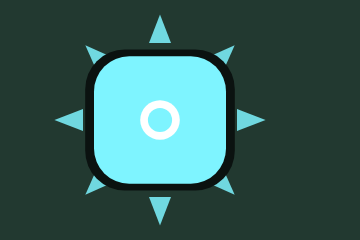
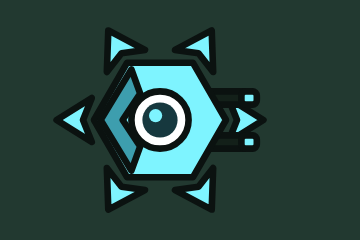
Redesign boss silhouettes and refresh README illustrations

Changed region(s): [[0.1528, 0.0583, 0.7639, 0.9333], [0.6417, 0.175, 0.6722, 0.2042]]

diff --git a/src/game/bossVisuals.ts b/src/game/bossVisuals.ts
@@ -1,0 +1,103 @@
+import type { BossVariant } from './rules';
+
+/** Overhead boss silhouettes. All geometry is normalized to a radius of 32.
+ * Decorative armor extends beyond the unchanged gameplay collision radius.
+ */
+export function drawBossVisual(
+  ctx: CanvasRenderingContext2D, variant: BossVariant, radius: number,
+  time: number, hit: boolean,
+) {
+  const dark = '#0b1210';
+  const armor = '#132019';
+  const color = hit ? '#ffffff' : variant.color;
+  ctx.save();
+  ctx.scale(radius / 32, radius / 32);
+  ctx.lineJoin = 'round';
+  ctx.lineCap = 'round';
+  const polygon = (points: number[][], fill: string, stroke = dark, width = 3) => {
+    ctx.beginPath();
+    points.forEach(([x, y], i) => i ? ctx.lineTo(x, y) : ctx.moveTo(x, y));
+    ctx.closePath(); ctx.fillStyle = fill; ctx.fill();
+    ctx.strokeStyle = stroke; ctx.lineWidth = width; ctx.stroke();
+  };
+  const box = (x: number, y: number, w: number, h: number, r: number, fill: string) => {
+    ctx.beginPath(); ctx.roundRect(x, y, w, h, r);
+    ctx.fillStyle = fill; ctx.fill();
+    ctx.strokeStyle = dark; ctx.lineWidth = 3; ctx.stroke();
+  };
+  const circle = (x: number, y: number, r: number, fill: string, outline = true) => {
+    ctx.beginPath(); ctx.arc(x, y, r, 0, Math.PI * 2);
+    ctx.fillStyle = fill; ctx.fill();
+    if (outline) { ctx.strokeStyle = dark; ctx.lineWidth = 3; ctx.stroke(); }
+  };
+  const barrels = (length: number, gap: number, height: number) => {
+    for (const y of [-gap, gap]) {
+      box(15, y - height / 2, length, height, 3, armor);
+      box(15 + length - 7, y - height / 2, 7, height, 2, color);
+    }
+  };
+  if (variant.shape === 'goliath') {
+    // Rear paint tanks, broad side plates and heavy twin barrels.
+    box(-39, -22, 16, 17, 5, color);
+    box(-39, 5, 16, 17, 5, color);
+    box(-25, -35, 46, 13, 4, armor);
+    box(-25, 22, 46, 13, 4, armor);
+    barrels(32, 12, 13);
+    polygon([[-32,-18],[-17,-29],[18,-29],[31,-16],[31,16],[18,29],[-17,29],[-32,18]], color);
+    polygon([[-26,-16],[-15,-23],[-15,23],[-26,16]], armor);
+    box(-6, -8, 32, 16, 5, armor);
+    box(4, -3, 18, 6, 2, '#e9f5ee');
+    for (const y of [-21, 21]) {
+      box(-8, y - 2, 22, 4, 1, armor);
+    }
+  } else if (variant.shape === 'inferno') {
+    // Swept flame fins remain readable even without particles.
+    for (let i = 0; i < 6; i++) {
+      ctx.save(); ctx.rotate(i * Math.PI / 3);
+      const pulse = Math.sin(time * 8 + i) * 2;
+      polygon([[22,-12],[46 + pulse,-8],[33,6],[23,12]], color);
+      ctx.restore();
+    }
+    barrels(27, 9, 9);
+    polygon([[-31,0],[-15,-27],[17,-24],[31,0],[17,24],[-15,27]], color);
+    polygon([[-23,0],[-12,-18],[-8,0],[-12,18]], armor);
+    for (const y of [-15, 15]) {
+      box(-2, y - 3, 17, 6, 2, armor);
+      box(2, y - 1, 10, 2, 1, '#ffd84d');
+    }
+    box(0, -5, 24, 10, 4, armor);
+    box(6, -2, 14, 4, 1, '#ffffff');
+  } else if (variant.shape === 'glacier') {
+    // Six detached crystal plates around a genuinely hexagonal shell.
+    for (let i = 0; i < 6; i++) {
+      ctx.save(); ctx.rotate(i * Math.PI / 3);
+      polygon([[31,-10],[47,0],[31,10],[35,0]], color);
+      ctx.restore();
+    }
+    barrels(29, 10, 6);
+    polygon([[30,0],[15,26],[-15,26],[-30,0],[-15,-26],[15,-26]], color);
+    polygon([[-27,0],[-13,-23],[-9,-12],[-17,0],[-9,12],[-13,23]], '#3d9eae');
+    circle(0, 0, 13, '#ffffff');
+    circle(0, 0, 8, '#16383e', false);
+    circle(-2, -2, 3, '#7ef4ff', false);
+  } else {
+    // Paint vat, paired side reservoirs, hoses and asymmetric spray nozzles.
+    for (const y of [-30, 30]) {
+      ctx.beginPath(); ctx.moveTo(-20, y); ctx.quadraticCurveTo(-39, y, -28, 0);
+      ctx.strokeStyle = dark; ctx.lineWidth = 7; ctx.stroke();
+      box(-22, y - 9, 42, 18, 8, armor);
+      box(-17, y - 6, 29, 12, 5, color);
+    }
+    for (const [x,y,r] of [[-36,-17,5],[-42,0,6],[-36,17,5]]) circle(x,y,r,color);
+    box(17, -15, 28, 11, 4, armor);
+    box(38, -15, 7, 11, 2, color);
+    box(19, 6, 21, 12, 4, armor);
+    box(34, 6, 7, 12, 2, color);
+    circle(0, 0, 29, armor);
+    circle(0, 0, 24, color);
+    box(-17, -5, 35, 10, 4, armor);
+    box(1, -2, 13, 4, 1, '#ffffff');
+    for (const [x,y] of [[-10,-13],[0,15],[9,-14]]) circle(x,y,2,'#e9f5ee',false);
+  }
+  ctx.restore();
+}

diff --git a/src/game/engine.ts b/src/game/engine.ts
@@ -1,3 +1,4 @@
+import { drawBossVisual } from "./bossVisuals";
 import { Sfx } from "./audio";
 import {
   DEFAULT_WEAPON,
@@ -3557,7 +3558,6 @@ export class PaintballGame {
       ctx.fill();
     } else if (e.type === "boss") {
       const bv = BOSS_VARIANTS[(e.variant ?? 0) % BOSS_VARIANTS.length];
-      const tint = hit ? "#ffffff" : bv.color;
       const t = this.time;
       // halo de variante
       const glow = this.glows.get(bv.color);
@@ -3567,91 +3567,7 @@ export class PaintballGame {
         ctx.drawImage(glow, -e.r * 2.4, -e.r * 2.4, e.r * 4.8, e.r * 4.8);
         ctx.restore();
       }
-      if (bv.shape === "inferno") {
-        // double canon + pointes de flamme
-        ctx.fillStyle = "#132019";
-        this.rr(ctx, 4, -15, 42, 11, 5);
-        ctx.fill();
-        this.rr(ctx, 4, 4, 42, 11, 5);
-        ctx.fill();
-        for (let i = 0; i < 6; i++) {
-          const a = (i / 6) * TAU;
-          ctx.save();
-          ctx.rotate(a);
-          ctx.fillStyle = tint;
-          ctx.beginPath();
-          ctx.moveTo(e.r + 2, -7);
-          ctx.lineTo(e.r + 14 + Math.sin(t * 8 + i) * 4, 0);
-          ctx.lineTo(e.r + 2, 7);
-          ctx.closePath();
-          ctx.fill();
-          ctx.restore();
-        }
-      } else if (bv.shape === "glacier") {
-        // cristaux autour d'un noyau hexagonal
-        for (let i = 0; i < 8; i++) {
-          const a = (i / 8) * TAU + t * 0.5;
-          ctx.save();
-          ctx.rotate(a);
-          ctx.fillStyle = tint;
-          ctx.globalAlpha = 0.85;
-          ctx.beginPath();
-          ctx.moveTo(e.r + 3, -5);
-          ctx.lineTo(e.r + 16, 0);
-          ctx.lineTo(e.r + 3, 5);
-          ctx.closePath();
-          ctx.fill();
-          ctx.restore();
-        }
-      } else if (bv.shape === "toxic") {
-        // couronne de pics + réservoir
-        ctx.fillStyle = "#132019";
-        this.rr(ctx, -e.r - 12, -10, 16, 20, 6);
-        ctx.fill();
-        for (let i = 0; i < 10; i++) {
-          const a = (i / 10) * TAU;
-          ctx.fillStyle = tint;
-          ctx.beginPath();
-          ctx.arc(Math.cos(a) * (e.r + 6), Math.sin(a) * (e.r + 6), 3.4, 0, TAU);
-          ctx.fill();
-        }
-      } else {
-        // goliath : deux canons épais
-        ctx.fillStyle = "#132019";
-        this.rr(ctx, 4, -13, 40, 12, 5);
-        ctx.fill();
-        this.rr(ctx, 4, 3, 40, 12, 5);
-        ctx.fill();
-      }
-      ctx.fillStyle = "#0b1210";
-      this.rr(ctx, -e.r - 2, -e.r, (e.r + 2) * 2, e.r * 2, bv.shape === "glacier" ? 18 : 12);
-      ctx.fill();
-      ctx.fillStyle = tint;
-      this.rr(ctx, -e.r + 2, -e.r + 3, (e.r - 2) * 2, (e.r - 3) * 2, bv.shape === "glacier" ? 16 : 10);
-      ctx.fill();
-      // visière / noyau
-      if (bv.shape === "glacier") {
-        ctx.fillStyle = "#ffffff";
-        ctx.beginPath();
-        ctx.arc(0, 0, 9, 0, TAU);
-        ctx.fill();
-        ctx.fillStyle = bv.color;
-        ctx.beginPath();
-        ctx.arc(0, 0, 5.5, 0, TAU);
-        ctx.fill();
-      } else {
-        ctx.fillStyle = "rgba(11,18,16,0.55)";
-        this.rr(ctx, -e.r + 6, -5, e.r * 2 - 12, 10, 5);
-        ctx.fill();
-        ctx.fillStyle = "#ffffff";
-        ctx.beginPath();
-        ctx.arc(e.r - 8, 0, 8, 0, TAU);
-        ctx.fill();
-        ctx.fillStyle = "#0b1210";
-        ctx.beginPath();
-        ctx.arc(e.r - 6, 0, 4.6, 0, TAU);
-        ctx.fill();
-      }
+      drawBossVisual(ctx, bv, e.r, t, hit);
     } else {
       const long = e.type === "sniper";
       ctx.fillStyle = "#132019";

diff --git a/scripts/test-boss-visuals.ts b/scripts/test-boss-visuals.ts
@@ -1,0 +1,34 @@
+/** Run with npx tsx scripts/test-boss-visuals.ts after installing @napi-rs/canvas. */
+import assert from 'node:assert/strict';
+import { createCanvas } from '@napi-rs/canvas';
+import { drawBossVisual } from '../src/game/bossVisuals';
+import { BOSS_VARIANTS } from '../src/game/rules';
+
+const normal = new Set<string>();
+for (const variant of BOSS_VARIANTS) {
+  for (const radius of [24, 32, 40]) {
+    const render = (hit: boolean, time = 0) => {
+      const canvas = createCanvas(240, 240);
+      const ctx = canvas.getContext('2d');
+      ctx.translate(120, 120);
+      const before = ctx.getTransform();
+      drawBossVisual(ctx as unknown as CanvasRenderingContext2D, variant, radius, time, hit);
+      assert.deepEqual(ctx.getTransform(), before, 'Renderer must restore the transform');
+      const pixels = ctx.getImageData(0, 0, 240, 240).data;
+      assert(pixels.some((value, i) => i % 4 === 3 && value > 0), 'Must draw visible pixels');
+      // Decorative shapes must remain within the normalized export bounds.
+      for (let i = 0; i < 240; i++) {
+        for (const [x, y] of [[i,0], [i,239], [0,i], [239,i]]) {
+          assert.equal(pixels[(y * 240 + x) * 4 + 3], 0, 'No clipped silhouette');
+        }
+      }
+      return canvas.toBuffer('image/png').toString('base64');
+    };
+    const base = render(false);
+    assert.notEqual(base, render(true), `${variant.name} needs visible hit feedback`);
+    if (variant.shape === 'inferno') assert.notEqual(base, render(false, 0.2), 'Flame fins must animate');
+    if (radius === 32) normal.add(base);
+  }
+}
+assert.equal(normal.size, 4, 'Each boss must have a distinct appearance');
+console.log('Boss visuals: distinct silhouettes, hit feedback, animation, scaling and context restoration passed.');

diff --git a/README.md b/README.md
@@ -51,10 +51,12 @@ Les vignettes ci-dessous sont exportées avec les **fonctions de dessin du jeu**
 
 | Apparence | Boss | Première rencontre | Identité visuelle | Multiplicateur de PV de variante |
 | --- | --- | --- | --- | --- |
-| <img src="visuals/codex/goliath.png" alt="Apparence en jeu : GOLIATH" width="120" /> | **GOLIATH** | **Vague 5** | 🟡 Or · double canon épais | ×1,00 |
-| <img src="visuals/codex/inferno.png" alt="Apparence en jeu : INFERNO" width="120" /> | **INFERNO** | **Vague 10** | 🟠 Orange · pointes de flamme pulsantes | ×1,10 |
-| <img src="visuals/codex/glacier.png" alt="Apparence en jeu : GLACIER" width="120" /> | **GLACIER** | **Vague 15** | 🔵 Cyan · cristaux orbitaux et noyau hexagonal | ×1,20 |
-| <img src="visuals/codex/toxic.png" alt="Apparence en jeu : TOXIC" width="120" /> | **TOXIC** | **Vague 20** | 🟢 Lime · couronne de spores et cuve dorsale | ×1,30 |
+| <img src="visuals/codex/goliath.png" alt="Apparence en jeu : GOLIATH" width="120" /> | **GOLIATH** | **Vague 5** | 🟡 Or · blindage hexagonal, plaques latérales et double canon | ×1,00 |
+| <img src="visuals/codex/inferno.png" alt="Apparence en jeu : INFERNO" width="120" /> | **INFERNO** | **Vague 10** | 🟠 Orange · coque anguleuse, ailettes de flamme et évents | ×1,10 |
+| <img src="visuals/codex/glacier.png" alt="Apparence en jeu : GLACIER" width="120" /> | **GLACIER** | **Vague 15** | 🔵 Cyan · armure hexagonale, six cristaux et noyau central | ×1,20 |
+| <img src="visuals/codex/toxic.png" alt="Apparence en jeu : TOXIC" width="120" /> | **TOXIC** | **Vague 20** | 🟢 Lime · cuve ronde, réservoirs latéraux et buses | ×1,30 |
+
+**Nouvelles apparences intégrées au moteur Canvas.** Les quatre illustrations ci-dessus montrent le rendu réellement utilisé en jeu, et non les images de concept. Les animations et halos restent actifs en partie ; les collisions et les caractéristiques des boss ne changent pas.
 
 Les quatre variantes alternent **tirs simples et salves en éventail**. Leur silhouette, leur halo et la couleur des projectiles changent ; leurs noms ne désignent pas des effets élémentaires distincts. Les multiplicateurs ci-dessus s’ajoutent à la progression des vagues : ce ne sont pas des valeurs de PV fixes.
 
@@ -263,10 +265,10 @@ barillet du **Magnum**, trois barillets qui tournent sur le **Minigun**, tube et
 
 | Vague | Boss | Couleur | Silhouette | Particularité |
 | --- | --- | --- | --- | --- |
-| 5 | **GOLIATH** | or | double canon épais | référence |
-| 10 | **INFERNO** | orange | pointes de flamme qui pulsent | +10 % PV |
-| 15 | **GLACIER** | cyan | cristaux orbitaux, noyau hexagonal | +20 % PV |
-| 20 | **TOXIC** | lime | couronne de spores, cuve dorsale | +30 % PV |
+| 5 | **GOLIATH** | or | blindage hexagonal, double canon, réservoirs arrière | référence |
+| 10 | **INFERNO** | orange | coque anguleuse, ailettes pulsantes, évents | +10 % PV |
+| 15 | **GLACIER** | cyan | coque hexagonale, six cristaux séparés, noyau central | +20 % PV |
+| 20 | **TOXIC** | lime | cuve ronde, réservoirs latéraux, tuyaux et buses | +30 % PV |
 
 Chaque variante a son halo, ses projectiles colorés et sa bannière (`INFERNO · BOSS`). Le HUD affiche le nom du boss
 en cours avec une icône de tête de mort.
